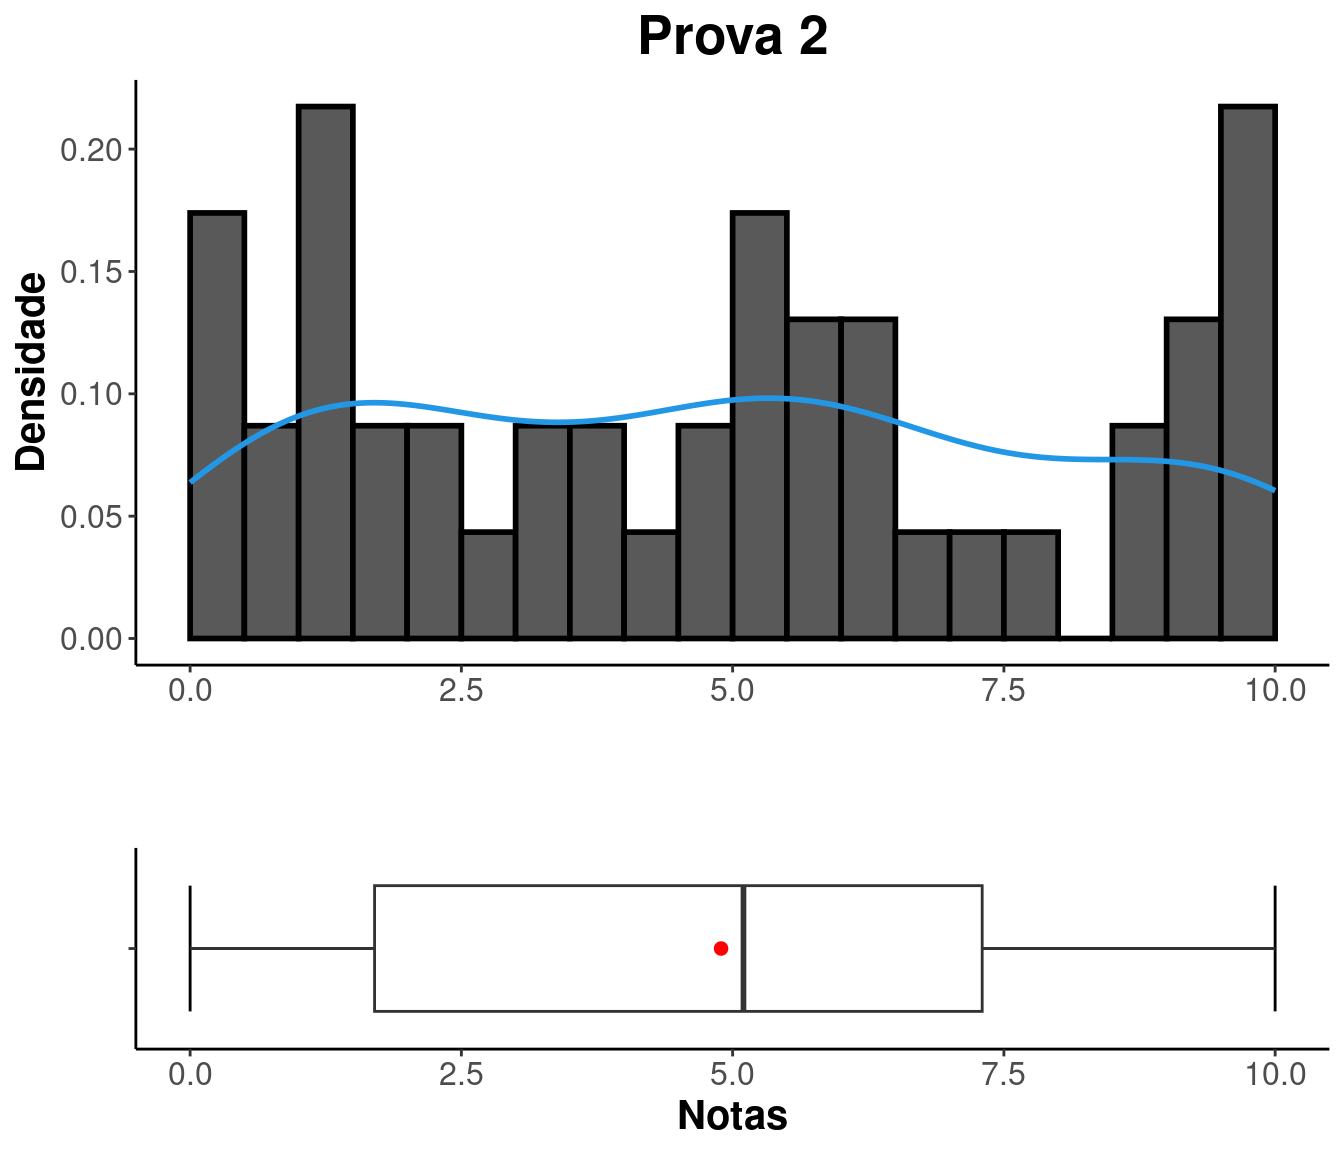
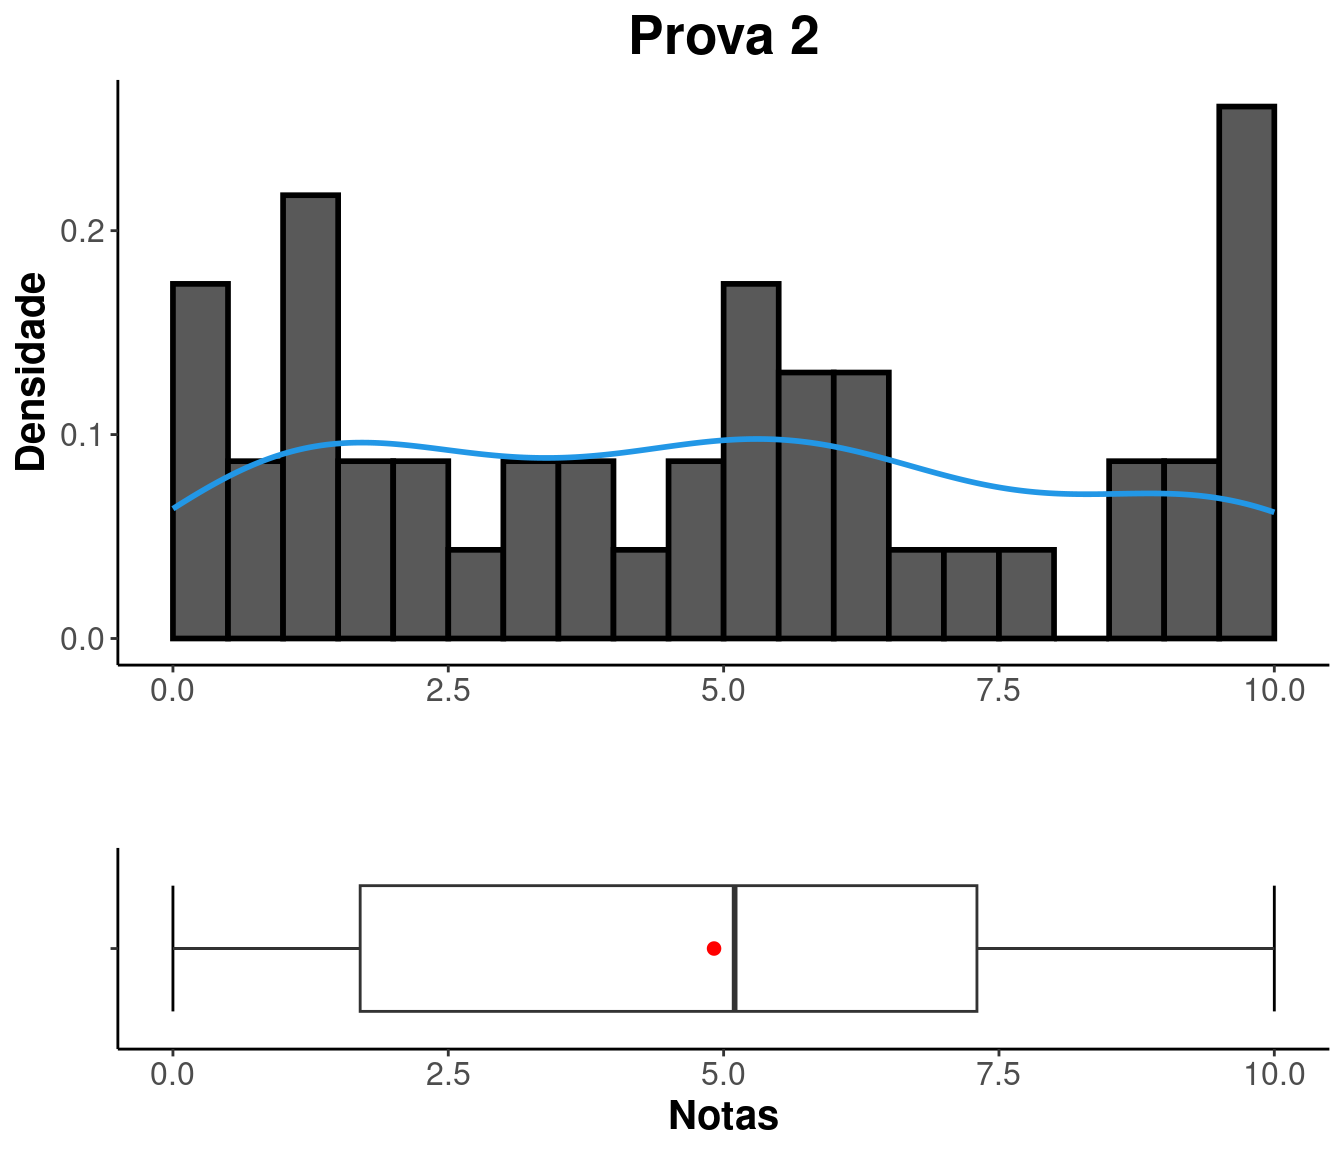
corrige notas

diff --git a/notas.html b/notas.html
@@ -299,8 +299,8 @@ $(document).ready(function () {
 <p>Busque sua situação digitando seu GRR na caixa “Search”.</p>
 <p><br />
 </p>
-<div class="datatables html-widget html-fill-item-overflow-hidden html-fill-item" id="htmlwidget-8b0a99c7889894144623" style="width:100%;height:auto;"></div>
-<script type="application/json" data-for="htmlwidget-8b0a99c7889894144623">{"x":{"filter":"none","vertical":false,"editable":{"target":"cell","disable":{"columns":null},"numeric":[1,2,3,4,5,6,7],"date":[]},"data":[["GRR20214415","GRR20221525","GRR20221517","GRR20164993","GRR20220182","GRR20221528","GRR20221547","GRR20221529","GRR20190881","GRR20195166","GRR20190779","GRR20190893","GRR20221537","GRR20189973","GRR20221522","GRR20201104","GRR20172662","GRR20205685","GRR20190862","GRR20212136","GRR20190860","GRR20220176","GRR20190837","GRR20215549","GRR20214407","GRR20220186","GRR20190804","GRR20221544","GRR20221512","GRR20221538","GRR20212127","GRR20205340","GRR20201144","GRR20190928","GRR20201103","GRR20210740","GRR20174617","GRR20223869","GRR20212139","GRR20223866","GRR20212144","GRR20224178","GRR20215547","GRR20210733","GRR20224434","GRR20221513","GRR20210497","GRR20223868","GRR20204772","GRR20220187","GRR20212109","GRR20206179","GRR20223865","GRR20212108","GRR20201142","GRR20190853","GRR20211315","GRR20205330","GRR20220184","GRR20190855","GRR20221533","GRR20223867","GRR20221531","GRR20190954","GRR20221550","GRR20221514","GRR20221539","GRR20221548","GRR20220181","GRR20172657","GRR20224438","GRR20212122","GRR20165605","GRR20210737","GRR20212135","GRR20214411","GRR20221535","GRR20221549","GRR20205319","GRR20201127"],[8,0,20,24,20,4,0,16,24,12,4,8,0,32,12,12,4,24,20,36,0,0,0,4,16,0,0,8,0,0,16,12,4,8,16,0,4,4,12,0,36,12,8,0,12,8,24,8,0,56,12,60,4,4,64,8,8,64,0,20,12,12,8,0,4,0,20,8,8,0,52,4,0,12,4,16,8,0,4,8],[3.5,9.9,2.1,6.5,4.8,7.5,8,3.6,null,10,8.300000000000001,6.3,10,null,3.5,7.8,7,null,2.8,null,8.800000000000001,10,8,5.2,6.6,10,7.6,7.4,9.6,10,5.4,null,9.300000000000001,6,5.5,8.5,7,5.5,2,6.1,null,5.6,9.300000000000001,9.1,5.6,8.1,3.8,8.300000000000001,9.199999999999999,null,8,null,8.199999999999999,6,null,6.6,5.2,null,9.800000000000001,0.75,5.3,2.8,8.9,0.5,5,5.2,4.4,5,6.5,2.5,1.8,8,3.4,4,4.7,7.5,5.7,6.5,5.8,7.5],[0.4,7,null,null,null,2.5,5.6,9.1,null,null,5.5,4,10,null,null,5,null,null,null,null,6.5,10,1.5,null,null,5,5.6,2.5,7.7,9.199999999999999,1.4,10,9,4.3,null,9.9,4,0.5,null,0.4,null,null,3.2,9.6,1.5,1.6,null,5.4,9.1,null,2,null,null,3,null,3.5,null,null,8.6,null,null,1.1,null,0,5.3,6.5,null,null,7.4,1.3,null,5.2,6,null,1,null,null,0.7,null,6.5],[2.8,8.9,0,0,6.9,9.699999999999999,7.1,5.6,null,10,9.800000000000001,7.1,10,null,7,7.2,4.3,null,0,null,10,10,10,5.2,0,8.800000000000001,9.6,8.5,0,10,4.3,3.3,10,10,7.7,0,6.5,2.2,2.2,7.4,null,6.3,8.4,9.5,0,7.4,0,9.4,10,null,0,null,10,0,null,10,4.4,null,7,3.2,7.2,5.8,9.9,1.6,9,9.6,8.4,1.7,10,8,0,8.800000000000001,10,3.6,5.4,8.699999999999999,5.8,7.8,4.9,5.5],[7,9.4,null,null,null,6.8,9,7.3,null,9.300000000000001,7.7,3.2,9.699999999999999,null,4.7,8.300000000000001,5.9,null,null,null,9.199999999999999,10,0,8,0,8.9,7.9,5.2,9.699999999999999,9.6,2.6,0,9.800000000000001,7.8,5.1,9.699999999999999,2,7.7,4.7,5.2,null,5.7,8.300000000000001,9.199999999999999,3.9,6.9,4.7,0,9.699999999999999,null,0,null,7.2,4.1,null,8.5,0,null,7.2,0,null,2.4,8.5,2.1,8.300000000000001,8.6,null,3.9,7.4,7.3,null,6.8,8.300000000000001,0,4.9,5.5,4.7,5.4,7.6,9.6],[6.3,5.4,null,0,0,6.5,6.8,8.199999999999999,null,4.9,5.3,4.3,7,null,0,3.9,0,null,null,null,5.3,9.5,6.4,6.9,0,4.7,8.300000000000001,7,9.4,8.4,0.8,0,0,5.6,5.4,6.6,0,6.3,0,0,null,0,4.2,6.9,0,2.9,1.5,0,6.6,null,0,null,2,2,null,9.6,0,null,7.2,0,null,0,0,0.5,0,8.6,null,3.1,6.6,7.3,null,6.5,8.5,0,4.3,3.9,0,5,4.6,0],[1.98,5.71,0.53,1.63,1.78,3.94,4.83,4.49,null,4.01,4.88,3.49,6.67,null,1.61,4.41,2.39,null,0.7,null,5.36,6.84,3.4,2.56,1.65,5.15,4.91,3.77,5.52,6.55,2.18,2.71,5.81,4.04,2.51,5.62,3.28,2.51,0.93,2.41,null,2.15,4.43,6.28,2.02,3.5,1.34,4.01,6.22,null,2.5,null,3.25,2.63,null,4.28,1.58,null,5.94,0.39,3.13,1.49,3.38,0.39,3.66,4.6,3.2,1.79,4.98,2.36,0.45,4.68,4.03,1.23,2.34,3.01,2.08,2.94,2.52,4.44]],"container":"<table class=\"cell-border stripe\">\n  <thead>\n    <tr>\n      <th>GRR<\/th>\n      <th>FALTAS<\/th>\n      <th>PROVA 1<\/th>\n      <th>PROVA 2<\/th>\n      <th>REMOTA 1<\/th>\n      <th>REMOTA 2<\/th>\n      <th>REMOTA 3<\/th>\n      <th>PARCIAL<\/th>\n    <\/tr>\n  <\/thead>\n<\/table>","options":{"columnDefs":[{"className":"dt-right","targets":[1,2,3,4,5,6,7]}],"order":[],"autoWidth":false,"orderClasses":false}},"evals":[],"jsHooks":[]}</script>
+<div class="datatables html-widget html-fill-item-overflow-hidden html-fill-item" id="htmlwidget-585c59650211dcdd6737" style="width:100%;height:auto;"></div>
+<script type="application/json" data-for="htmlwidget-585c59650211dcdd6737">{"x":{"filter":"none","vertical":false,"editable":{"target":"cell","disable":{"columns":null},"numeric":[1,2,3,4,5,6,7],"date":[]},"data":[["GRR20214415","GRR20221525","GRR20221517","GRR20164993","GRR20220182","GRR20221528","GRR20221547","GRR20221529","GRR20190881","GRR20195166","GRR20190779","GRR20190893","GRR20221537","GRR20189973","GRR20221522","GRR20201104","GRR20172662","GRR20205685","GRR20190862","GRR20212136","GRR20190860","GRR20220176","GRR20190837","GRR20215549","GRR20214407","GRR20220186","GRR20190804","GRR20221544","GRR20221512","GRR20221538","GRR20212127","GRR20205340","GRR20201144","GRR20190928","GRR20201103","GRR20210740","GRR20174617","GRR20223869","GRR20212139","GRR20223866","GRR20212144","GRR20224178","GRR20215547","GRR20210733","GRR20224434","GRR20221513","GRR20210497","GRR20223868","GRR20204772","GRR20220187","GRR20212109","GRR20206179","GRR20223865","GRR20212108","GRR20201142","GRR20190853","GRR20211315","GRR20205330","GRR20220184","GRR20190855","GRR20221533","GRR20223867","GRR20221531","GRR20190954","GRR20221550","GRR20221514","GRR20221539","GRR20221548","GRR20220181","GRR20172657","GRR20224438","GRR20212122","GRR20165605","GRR20210737","GRR20212135","GRR20214411","GRR20221535","GRR20221549","GRR20205319","GRR20201127"],[8,0,20,24,20,4,0,16,24,12,4,8,0,32,12,12,4,24,20,36,0,0,0,4,16,0,0,8,0,0,16,12,4,8,16,0,4,4,12,0,36,12,8,0,12,8,24,8,0,56,12,60,4,4,64,8,8,64,0,20,12,12,8,0,4,0,20,8,8,0,52,4,0,12,4,16,8,0,4,8],[3.5,9.9,2.1,6.5,4.8,7.5,8,3.6,null,10,8.300000000000001,6.3,10,null,3.5,7.8,7,null,2.8,null,8.800000000000001,10,8,5.2,6.6,10,7.6,7.4,9.6,10,5.4,null,9.300000000000001,6,5.5,8.5,7,5.5,2,6.1,null,5.6,9.300000000000001,9.1,5.6,8.1,3.8,8.300000000000001,9.199999999999999,null,8,null,8.199999999999999,6,null,6.6,5.2,null,9.800000000000001,0.75,5.3,2.8,8.9,0.5,5,5.2,4.4,5,6.5,2.5,1.8,8,3.4,4,4.7,7.5,5.7,6.5,5.8,7.5],[0.4,7,null,null,null,2.5,5.6,9.1,null,null,5.5,4,10,null,null,5,null,null,null,null,6.5,10,1.5,null,null,5,5.6,2.5,7.7,9.699999999999999,1.4,10,9,4.3,null,9.9,4,0.5,null,0.4,null,null,3.2,9.6,1.5,1.6,null,5.4,9.5,null,2,null,null,3,null,3.5,null,null,8.6,null,null,1.1,null,0,5.3,6.5,null,null,7.4,1.3,null,5.2,6,null,1,null,null,0.7,null,6.5],[2.8,8.9,0,0,6.9,9.699999999999999,7.1,5.6,null,10,9.800000000000001,7.1,10,null,7,7.2,4.3,null,0,null,10,10,10,5.2,0,8.800000000000001,9.6,8.5,0,10,4.3,3.3,10,10,7.7,0,6.5,2.2,2.2,7.4,null,6.3,8.4,9.5,0,7.4,0,9.4,10,null,0,null,10,0,null,10,4.4,null,7,3.2,7.2,5.8,9.9,1.6,9,9.6,8.4,1.7,10,8,0,8.800000000000001,10,3.6,5.4,8.699999999999999,5.8,7.8,4.9,5.5],[7,9.4,null,null,null,6.8,9,7.3,null,9.300000000000001,7.7,3.2,9.699999999999999,null,4.7,8.300000000000001,5.9,null,null,null,9.199999999999999,10,0,8,0,8.9,7.9,5.2,9.699999999999999,9.6,2.6,0,9.800000000000001,7.8,5.1,9.699999999999999,2,7.7,4.7,5.2,null,5.7,8.300000000000001,9.199999999999999,3.9,6.9,4.7,0,9.699999999999999,null,0,null,7.2,4.1,null,8.5,0,null,7.2,0,null,2.4,8.5,2.1,8.300000000000001,8.6,null,3.9,7.4,7.3,null,6.8,8.300000000000001,0,4.9,5.5,4.7,5.4,7.6,9.6],[6.3,5.4,null,0,0,6.5,6.8,8.199999999999999,null,4.9,5.3,4.3,7,null,0,3.9,0,null,null,null,5.3,9.5,6.4,6.9,0,4.7,8.300000000000001,7,9.4,8.4,0.8,0,0,5.6,5.4,6.6,0,6.3,0,0,null,0,4.2,6.9,0,2.9,1.5,0,6.6,null,0,null,2,2,null,9.6,0,null,7.2,0,null,0,0,0.5,0,8.6,null,3.1,6.6,7.3,null,6.5,8.5,0,4.3,3.9,0,5,4.6,0],[1.98,5.71,0.53,1.63,1.78,3.94,4.83,4.49,null,4.01,4.88,3.49,6.67,null,1.61,4.41,2.39,null,0.7,null,5.36,6.84,3.4,2.56,1.65,5.15,4.91,3.77,5.52,6.68,2.18,2.71,5.81,4.04,2.51,5.62,3.28,2.51,0.93,2.41,null,2.15,4.43,6.28,2.02,3.5,1.34,4.01,6.32,null,2.5,null,3.25,2.63,null,4.28,1.58,null,5.94,0.39,3.13,1.49,3.38,0.39,3.66,4.6,3.2,1.79,4.98,2.36,0.45,4.68,4.03,1.23,2.34,3.01,2.08,2.94,2.52,4.44]],"container":"<table class=\"cell-border stripe\">\n  <thead>\n    <tr>\n      <th>GRR<\/th>\n      <th>FALTAS<\/th>\n      <th>PROVA 1<\/th>\n      <th>PROVA 2<\/th>\n      <th>REMOTA 1<\/th>\n      <th>REMOTA 2<\/th>\n      <th>REMOTA 3<\/th>\n      <th>PARCIAL<\/th>\n    <\/tr>\n  <\/thead>\n<\/table>","options":{"columnDefs":[{"className":"dt-right","targets":[1,2,3,4,5,6,7]}],"order":[],"autoWidth":false,"orderClasses":false}},"evals":[],"jsHooks":[]}</script>
 <hr />
 </div>
 <div id="análise-das-notas"
@@ -391,7 +391,7 @@ class="section level1 tabset tabset-fade tabset-pills">
 <tr class="odd">
 <td align="center">0</td>
 <td align="center">1.7</td>
-<td align="center">4.893</td>
+<td align="center">4.913</td>
 <td align="center">5.1</td>
 <td align="center">7.3</td>
 <td align="center">10</td>
@@ -414,8 +414,8 @@ class="section level1 tabset tabset-fade tabset-pills">
 <tbody>
 <tr class="odd">
 <td align="center">10</td>
-<td align="center">10.21</td>
-<td align="center">3.195</td>
+<td align="center">10.39</td>
+<td align="center">3.223</td>
 </tr>
 </tbody>
 </table>
